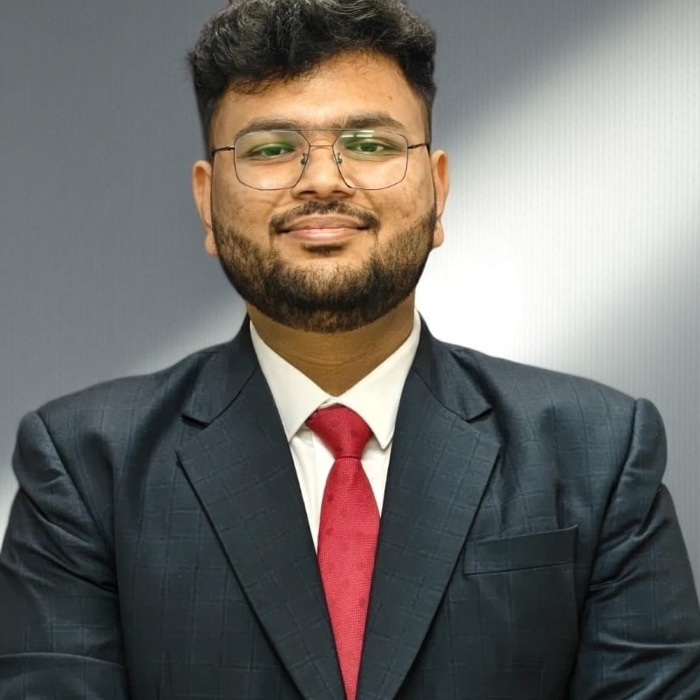
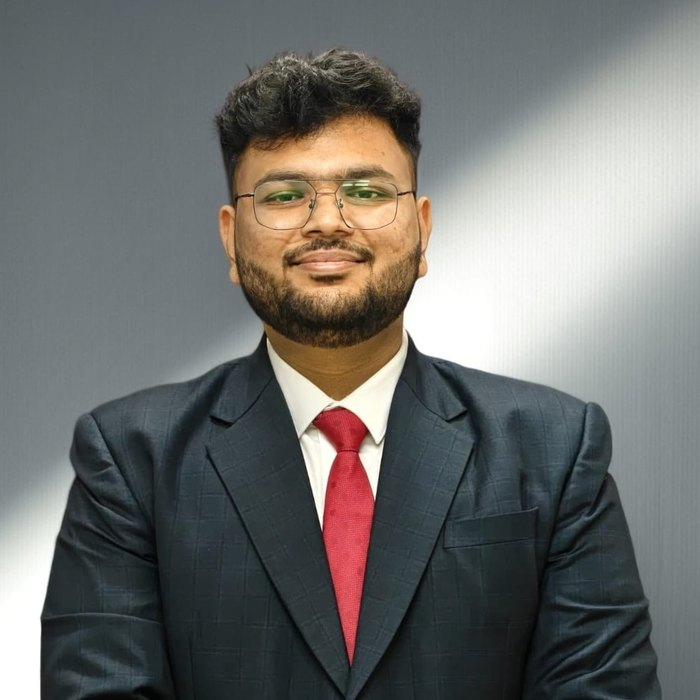
Keep both shoulders in the photo, crop only the bottom

diff --git a/v2/index.html b/v2/index.html
@@ -81,7 +81,7 @@
         </div>
         <figure class="cv-card rv">
           <div class="sheet">
-            <img src="../assets/photo.jpg?v=3" alt="Anu Yesh Sinha" width="800" height="1000">
+            <img src="../assets/photo.jpg?v=4" alt="Anu Yesh Sinha" width="866" height="1000">
           </div>
           <div class="cv-actions">
             <a href="../assets/Anu-Yesh-Sinha-Resume.pdf" target="_blank" rel="noopener">Open resum&eacute; <span aria-hidden="true">↗</span></a>
@@ -116,8 +116,8 @@
     <div class="about">
       <figure class="about-photo rv">
         <picture>
-          <source media="(max-width: 720px)" srcset="../assets/photo-square.jpg?v=3">
-          <img src="../assets/photo.jpg?v=3" alt="Anu Yesh Sinha" width="800" height="1000">
+          <source media="(max-width: 720px)" srcset="../assets/photo-square.jpg?v=4">
+          <img src="../assets/photo.jpg?v=4" alt="Anu Yesh Sinha" width="866" height="1000">
         </picture>
       </figure>
       <div>

diff --git a/index.html b/index.html
@@ -47,8 +47,8 @@
     </div>
     <figure class="portrait">
       <picture>
-        <source media="(max-width: 720px)" srcset="assets/photo-square.jpg?v=3">
-        <img src="assets/photo.jpg?v=3" alt="Anu Yesh Sinha" width="800" height="1000" onerror="this.remove()">
+        <source media="(max-width: 720px)" srcset="assets/photo-square.jpg?v=4">
+        <img src="assets/photo.jpg?v=4" alt="Anu Yesh Sinha" width="866" height="1000" onerror="this.remove()">
       </picture>
       <span class="monogram" aria-hidden="true">AS</span>
     </figure>

diff --git a/styles.css b/styles.css
@@ -99,7 +99,7 @@ p { margin: 0; }
 .dot { width: 8px; height: 8px; border-radius: 50%; background: #2fa36b; flex: none; transform: translateY(-1px); box-shadow: 0 0 0 4px color-mix(in srgb, #2fa36b 20%, transparent); }
 
 .portrait {
-  margin: 0; position: relative; aspect-ratio: 4 / 5; max-width: 100%;
+  margin: 0; position: relative; aspect-ratio: 866 / 1000; max-width: 100%;
   border-radius: 18px; overflow: hidden; background: var(--accent);
   box-shadow: var(--shadow);
 }
